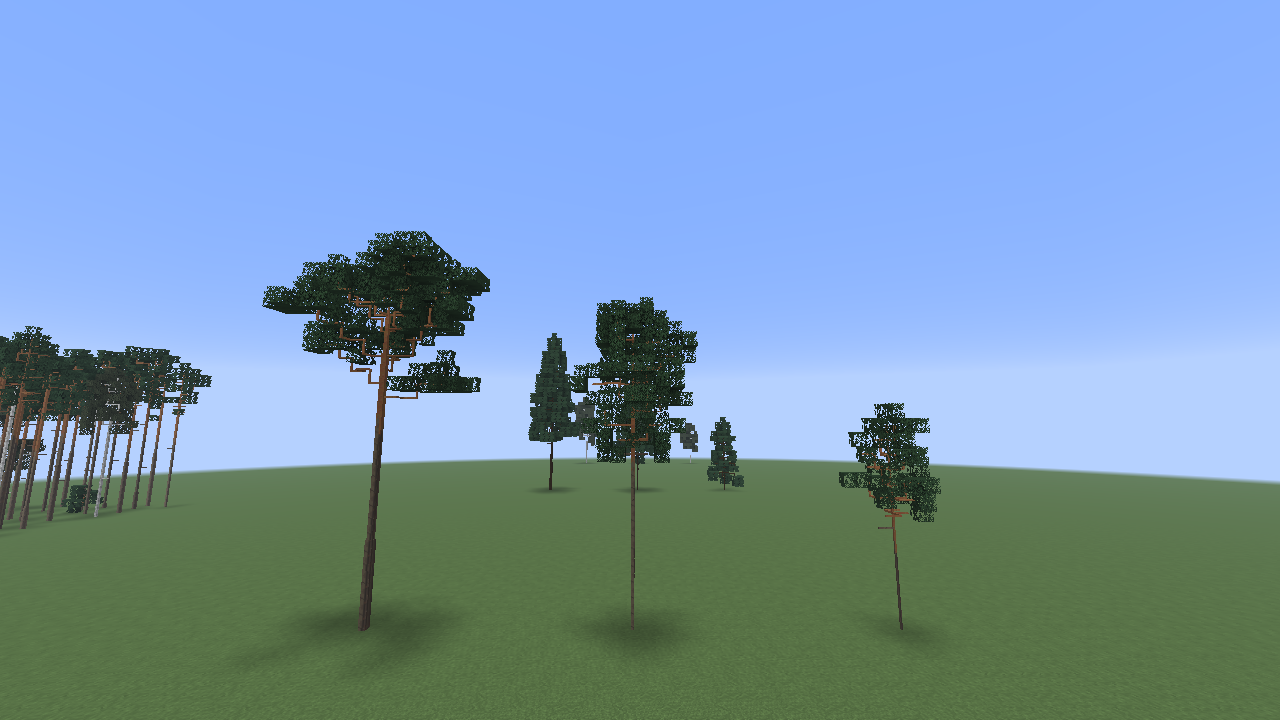
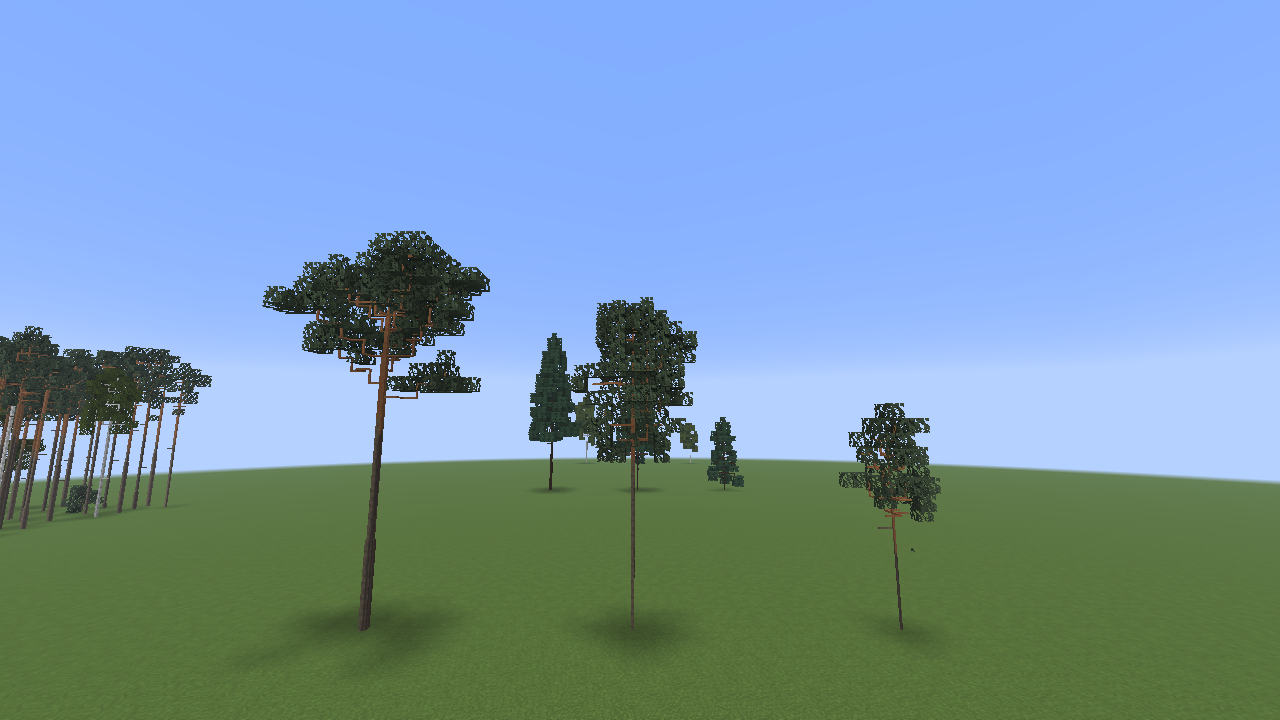
V7 review fixes, round 1
- Game tests set the date explicitly; the tree board and slice norms run in mid-summer, plus October, November, January and March stand views
- Screenshots and sheets in docs/wycinek/drzewa/gra and docs/wycinek/liscie retaken; leaves board passes in all six render setups, with winter chroma checked too
- Docs: round 1 section in docs/04, V10 item for the SS sub-season frames, CP-B questions, G.13 V7-l to V7-p, BRIEF
- Full test suite passed (tools/dev/run-tests test)

diff --git a/docs/04-pionowy-wycinek.md b/docs/04-pionowy-wycinek.md
@@ -307,6 +307,7 @@ Ryzyko według B1. Wysokie (2 recenzentów, do 2 rund) mają: rejestracja blokó
   - A/B `stages` z bazą M2 z V0 w jednej sesji (4 przebiegi, mediany), w obu lasach, skalach i trybach oraz w obszarze „area”: FEATURES, LIGHT, cały chunk, liście i drewno na chunk, czas planera; chunki na sekundę z C2ME; pamięć i liczba stanów;
   - FPS w stałym przelocie kamery z paczką i bez (nowy przelot w `performance`);
   - jasność przy gruncie pod okapem grądu w południe i próby spawnu potworów w dzień (PW-13);
+  - (z przeglądu V7) zmiana podsezonu SS z naszą falą przebudowy i bez niej (np. fala pomijana, gdy zmienił się podsezon i działa SS, z opóźnieniem o tick, żeby nie wrócił wyścig z V7-g), w trzech rendererach: czy klatki 40–44 ms z Nvidium to `allChanged()` SS, czy podwójna praca; liczba stanów moda (po rundzie 1 przeglądu V7: 2224);
   - cięcia według potrzeby, w tej kolejności: puste środki koron, mniejsze skupiska liści, liście sosny i brzozy przepuszczające niebo, rzadsze a2.
 - **Ukończony, gdy:** cały chunk ≤ 48 ms wszędzie; FPS i chunki na sekundę w progach PW-10; nowe budżety FEATURES i LIGHT zapisane w `docs/04` jako propozycja do CP-B; potwory w dzień nie częściej niż w ciemnym lesie wanilii albo PW-13 wykonane.
 - **Ryzyko:** wysokie (R1, R2). Cięcia nie mogą zejść poniżej N1 i N4 bez decyzji użytkownika (B3).
@@ -316,10 +317,10 @@ Ryzyko według B1. Wysokie (2 recenzentów, do 2 rund) mają: rejestracja blokó
 To pierwszy moment, w którym użytkownik **gra**.
 
 - **Użytkownik dostaje:**
-  - stronę ze zrzutami obu lasów (gospodarczy i naturalny, 3 klasy wieku, z ziemi, z 30 m i spod okapu, REAL i GAMEPLAY, N i D, lato i jesień), z transektem Bśw → grąd i ze stykiem z biomami spoza pasa;
+  - stronę ze zrzutami obu lasów (gospodarczy i naturalny, 3 klasy wieku, z ziemi, z 30 m i spod okapu, REAL i GAMEPLAY, N i D, lato, jesień, późna jesień, zima i marzec (start nowego świata) obok siebie), z transektem Bśw → grąd i ze stykiem z biomami spoza pasa;
   - arkusze PNG drzew, zrzut sarny z 4 stron (sam model), tabelę karty norm wobec M2, liczby wydajności;
   - ziarno i współrzędne (`/polishforests find biome oak_hornbeam_forest`), listę do sprawdzenia: spacer 10 minut, ścięcie drzewa, posadzenie sadzonki, przelot elytrą nad lasem, `runClient -Poptimization`.
-- **Pytania:** pokrój i gęstość; budżety (PW-10); skala w GAMEPLAY (PW-12); czy styl sarny pozwala robić AI.
+- **Pytania:** pokrój i gęstość; budżety (PW-10); skala w GAMEPLAY (PW-12); czy styl sarny pozwala robić AI; z V7 (`docs/00` G.13): wielkość drzewa z sadzonki (V7-o), barwy gatunków latem i terminy przebarwiania (V7-d), zima liściastych do V13 (V7-l), data startu nowego świata (V7-p).
 - **Po akceptacji:** zamrożenie zapisu (PW-11, ZW-4).
 
 ### V11. Martwe drewno (A, 1,5–2 dnia)
@@ -1533,9 +1534,9 @@ Liście gatunków, krzywe kolorów, sadzonki i zestaw LITE sosny są w modzie; d
 
 **Pomiary** (gametest w 6 zestawach: wanilia, czysty Sodium `-Poptimization -PnoNvidium`, Sodium + Nvidium `-Poptimization`, każdy z SS i z `-PnoSeasons`; wszystkie PASS; `-PtimingsReportOnly`, bo równolegle mogła działać druga praca):
 - **Kolor:** w każdym zestawie i porze tint z `BlockColors` równa się krzywej; mediana ekranu każdej próbki ma chromatyczność krzywej z odchyleniem ≤ 0,009 (Sodium), ≤ 0,010 (wanilia), ≤ 0,011 (Nvidium) przy tolerancji 0,03; surowe listowie każdej próbki jest takie samo w każdej porze także z SS, czyli **bez podwójnego sezonowania** (dąb wanilii zmienia SS, nasze liście nie).
-- **Terminy** (bez SS; liczby w `docs/wycinek/liscie/wyniki_*.txt`): w 3. dekadzie IV liście mają tylko brzoza, klon i grab (jasnozielone), w V wszystkie poza jesionem (dąb oliwkowy na starcie); w 1. dekadzie X żółkną brzoza `#b0b938`, lipa `#9eaa3b` i klon `#91aa32`, dąb i grab są zielone; w 2. dekadzie brzoza `#cbb93a`, klon `#cdaa2f`, buk `#c3a638`, jesion zielonożółty `#8daf3d`; w 3. dekadzie klon pomarańczowy `#cd8f2f`, buk miedziany `#b77e2d`, grab żółty `#bba837`, dąb dopiero żółknie `#879932`, jesion bezlistny; w XI dąb żółtobrązowy `#a59435`, grab brązowy `#9e7f32`, buk `#9a6a2c`, brzoza, lipa i jesion w kolorze spoczynku.
+- **Terminy** (bez SS; liczby w `docs/wycinek/liscie/wyniki_*.txt`): w 3. dekadzie IV jasnozielona jest tylko brzoza `#9fc64d`, klon `#8e9e4c` i grab `#929e45` dopiero rozwijają liście (oliwkowe, w pół drogi od koloru spoczynku; poprawione w rundzie 1 przeglądu, niżej), w V wszystkie poza jesionem (dąb oliwkowy na starcie); w 1. dekadzie X żółkną brzoza `#b0b938`, lipa `#9eaa3b` i klon `#91aa32`, dąb i grab są zielone; w 2. dekadzie brzoza `#cbb93a`, klon `#cdaa2f`, buk `#c3a638`, jesion zielonożółty `#8daf3d`; w 3. dekadzie klon pomarańczowy `#cd8f2f`, buk miedziany `#b77e2d`, grab żółty `#bba837`, dąb dopiero żółknie `#879932`, jesion bezlistny; w XI dąb żółtobrązowy `#a59435`, grab brązowy `#9e7f32`, buk `#9a6a2c`, brzoza, lipa i jesion w kolorze spoczynku.
 - **Fast:** liście gatunku są `LeavesBlock` i zachowują się jak liście dębu wanilii w tym samym rendererze: niebo przez ekran w Fancy 18,0–18,1% (dąb wanilii 16,6–16,8%), w Fast 0,0% / 0,0% (wanilia, czysty Sodium) i 34,6% / 33,0% (Nvidium wycina teren z progiem alfa).
-- **Przebudowa** (fala 11 pierścieni przy zasięgu 10, 63 ticki zapisu; klatka gametestu to ostatnia klatka ticku, nie FPS): bez SS p95 ≤ 1,9 ms (wanilia), ≤ 3,3 ms (Sodium), ≤ 3,0 ms (Nvidium), maksimum ≤ 2,0 / 3,9 / 3,6 ms; z SS maksimum 14,9 / 14,7 / 43,8 ms, bo przy zmianie podsezonu SS woła jeszcze `allChanged()` (z Nvidium co zmianę jedna klatka ok. 40–44 ms; bez SS takich klatek nie ma). Nasza fala nie daje zacięć; FPS w zwykłej grze mierzy V10.
+- **Przebudowa** (fala 12 pierścieni 0 … 11 przy zasięgu 10; log V7 podawał 11, 63 ticki zapisu; klatka gametestu to ostatnia klatka ticku, nie FPS): bez SS p95 ≤ 1,9 ms (wanilia), ≤ 3,3 ms (Sodium), ≤ 3,0 ms (Nvidium), maksimum ≤ 2,0 / 3,9 / 3,6 ms; z SS maksimum 14,9 / 14,7 / 43,8 ms (z Nvidium co zmianę podsezonu jedna klatka ok. 40–44 ms; bez SS takich klatek nie ma). **Hipoteza, nie pomiar:** przy zmianie podsezonu SS woła `allChanged()`, a nasza fala (V7-g) biegnie na to samo, więc praca przebudowy jest wtedy podwójna; przyczyny nie wyizolowano (zadanie dla V10, niżej). Nasza fala nie daje zacięć; FPS w zwykłej grze mierzy V10.
 - **Sadzonki** (9 z 9): każda po dwóch `advanceTree` rośnie w dokładnie to drzewo, które daje ficzer `sapling/<gatunek>` (wszystkie bloki drewna na miejscu, wszystkie liście): sosna 34 bloki drewna + 42 liście, 14 bloków wysokości; świerk 72 + 110, 14; brzoza 28 + 48, 12; dąb 38 + 163, 16; grab 63 + 233, 14; lipa 60 + 213, 15; buk 66 + 339, 16; jesion 31 + 106, 17; klon 41 + 142, 14. Sadzonka 4 bloki pod kamieniem nie przyjmuje mączki i po 3 `advanceTree` zostaje sadzonką. Siekiera koruje kłodę (oś z → oś z), receptura desek i tagi są wczytane.
 - **Tablica drzew V6** (`slice -Psites=trees`) z nowymi liśćmi: te same liczby co po rundzie 2 V6 (332 drzewa, 14 757 bloków drewna, 29 254 liście, żaden z odległością 7, zaraz i po 200 tickach); zrzutów `docs/wycinek/drzewa/gra/` nie odnawiano.
 
@@ -1549,3 +1550,32 @@ Liście gatunków, krzywe kolorów, sadzonki i zestaw LITE sosny są w modzie; d
 - Liczba stanów bloków moda rośnie o 9 × 115 + 13 = 1048 (z 840 do 1888).
 
 **Testy.** `FoliageCurveTest` (nowy: krzywa każdego gatunku planera, kolejność przebarwiania, kolory jesieni, 2–3 kolory w MID_AUTUMN, przesunięcie fazy, iglaste, rozróżnialne kolory lata, kroki roku), `RegistrySnapshotTest` (nowy test liści i sadzonek), `ProceduralTreeStatesTest` (liście gatunków w 4 fazach, kłoda sosnowa z pni, faza deterministyczna i równo rozłożona), `fastTest`, `checkDatagen`, `checkArt`, gametest `slice -Psites=leaves` w 6 zestawach, `slice -Psites=trees`, pełny zestaw `tools/dev/run-tests test`.
+
+### Runda 1 poprawek po przeglądzie V7 (2026-10-17)
+
+Przegląd: 2 uwagi poważne, 12 drobnych. Wszystkie sprawdzone i prawdziwe (żadnego fałszywego alarmu); poprawione wszystkie poza dwiema sprawami dla użytkownika (wielkość drzewa z sadzonki, start nowego świata) i białymi cienkimi gałązkami brzozy (V6/M3). Nowe drobne wybory: `docs/00` G.13 V7-l … V7-p, zmienione V7-d, V7-e, V7-g.
+
+**Zima i przedwiośnie (poważna).** Wspólny ciemny oliwkowy kolor spoczynku (`#7d6a50`) i suchy brąz (`#8a6a3e`) całych koron dębu, grabu i buka dawały przez ok. 40% roku las „martwy albo spalony” (na ekranie ok. (44, 39, 27)), a nowy świat startuje w marcu. Teraz:
+- każdy gatunek ma własną jasną **mgiełkę gałązek** (V7-l: brzoza `#b58b8f` fioletowobrązowa, lipa `#aa8377` rdzawa, klon `#9d8e80`, dąb `#9a8577` szarobrązowe, grab `#959084`, buk `#a1897e` szare, jesion `#9c9c91` jasnoszary; waga 0,9), chroma ≤ 20, jasność najwyżej 8 L* poniżej lata (test);
+- **marcescencja** tylko tam, gdzie liście naprawdę zostają: nowa właściwość `marcescent` na liściach dębu, grabu i buka (`MarcescentLeavesBlock`), planer (`ProceduralTreeFeature.marcescentShare`) zapisuje ją na całej koronie drzewa w drągowinie (także z sadzonki), dolnej połowie korony drzewa podokapowego i dolnej ćwiartce korony drzewa okapu; kolor jaśniejszy i cieplejszy (dąb `#a77f56`, grab `#a58660`, buk `#be8c5f`), trzymany do listnienia; brzoza, lipa, klon i jesion nigdy;
+- listnienie startuje 0,4 kroku przed kluczem (było 0,7), więc przejście z mgiełki w młode liście nie przechodzi przez khaki.
+Na ekranie (tablica drzew, krawędź grądu, korony bez nieba): średnia luminancja zimą 46,7, w marcu 46,7, latem 47,1, w X 49,6, czyli zimą las ma jasność lata; próbki zimą (61–69, 49–66, 47–57) zamiast (44–54, 39–45, 25–31). Data startu świata bez zmian, pytanie do CP-B (V7-p).
+
+**Data w testach ze zrzutami (poważna).** `TreeSamples` i karta norm `slice` bez SS stały w marcu (krok 0), więc tablica drzew i zrzuty `docs/wycinek/drzewa/gra/` miały brązowe korony. Nowa klasa `SeasonDates` ustawia datę jawnie (z SS `season set`, bez SS `time set` na kalendarzu wbudowanym) i zapisuje ją w logu (`[trees] date: MID_SUMMER day 4 (built-in calendar), color step 13`): tablica drzew w środku MID_SUMMER, karta norm `slice` i sondy w MID_SUMMER z SS i bez (bez SS karta norm liczyła dotąd aspekt wiosenny runa, V7-n). Tablica drzew robi dodatkowo krawędź i wnętrze grądu, krawędź boru i samotne dęby w X (2. dekada), XI, I i III (`trees_<renderer>_season_<podsezon>_<widok>`; przebieg ok. 3 min). Zrzuty `docs/wycinek/drzewa/gra/` odnowione latem, nowy arkusz `pory_roku.png` (lato, X, XI, I, III).
+
+**Drobne.**
+- **Paleta lata:** odcienie gatunków z wagą 0,4 dobrane w Lab (V7-d): każda para gatunków ΔE76 ≥ 6,3 nad kolorem grądu (było 2,1 grab/buk, 2,6 lipa/jesion, 4,2 jesion/dąb); grab matowy (chroma 55, buk 68; był najbardziej nasyconym), buk latem głębszy, jasny tylko wiosną; jasność lata +2 L*. Test `summerColorsOfTheSpeciesAreDistinct` sprawdza ΔE ≥ 6 (był próg 4 na kanał). Na ekranie (próbki MID_SUMMER, wanilia): grab/buk ΔE 7,1, lipa/jesion 10,4, lipa/klon 7,0; ciemne próbki ściskają różnice, więc brzoza/dąb 3,0, grab/dąb 3,1, jesion/dąb 4,1 — gatunki latem rozróżnia przede wszystkim pokrój (javadoc poprawiony).
+- **Złota jesień:** brzoza trzyma żółć do 23,6 kroku (bezlistna 24,2), lipa do 23,1 (23,6), klon pomarańcz do 23,9 (24,4); w 3. dekadzie X brzoza `#d2bf38`, lipa `#c4ad41`, klon `#d8932b` (było `#a49643`, `#918348`, `#cd8f2f`); brzoza z fazą 3 w 2. dekadzie X jest żółta (test `goldenAutumnHoldsUntilLeafFall`).
+- **Sosna:** latem `#7c996d` (chroma Lab 27, odcień 133; była `#7f9c86`, chroma 17, odcień 151), zimą żółknie do oliwki `#8a9670`, świerk ciemnieje o 12% jak dotąd (V7-e). Jasnozielone przyrosty V–VI pominięte (barwiłyby cały blok).
+- **Tekstura liści:** rampa szarości `broadleaf_leaves` podniesiona o 7 (średnia 143,8, dąb wanilii 144,2), kontrast lokalny bez zmian (22,8).
+- **Sadzonki:** więcej pikseli (81–102, było 51–75; wanilia 83–122) i kształty gatunków: lipa sercowate liście, klon pięcioklapowe, grab wydłużone owalne z fałdami, buk owalne, jesion więcej pierzastych liści i ciemniejsze zielenie, sosna świeża szarozielona kępa długich igieł na pomarańczowobrązowym pędzie (nie stożek świerka). Lint czysty.
+- **Sadzonka na ziemi uprawnej** rośnie i zostawia ziemię (`ProceduralTreeFeature.ground`), a klucz sadzonki wskazujący inny typ ficzera daje zachowanie wanilii (`SpeciesSaplingBlock.hasRoom`, V7-m); gametest `leaves` sprawdza oba (farmland: mączka tak, wyrosła, ziemia).
+- **Fala przebudowy:** pierścienie 0 … zasięg + 1, czyli 12 przy zasięgu 10 (log podawał 11; poprawiony log i „Stan po V7”). Przyczyna klatek 40–44 ms z Nvidium i SS opisana jako hipoteza; pomiar z falą i bez fali przy zmianie podsezonu SS dopisany do V10.
+- **Dokumentacja:** BRIEF (opis `write`), javadoc `ProceduralTreeFeature` i `wood()` (kłoda `TreeTrunk#log()`: wanilia albo kłoda sosny LITE), „Stan po V7” (3. dekada IV: przy fazie 1 próbki jasnozielona tylko brzoza, klon i grab w pół drogi; po poprawce przy średniej fazie jasnozielone brzoza, klon i grab), pytania V7 dopisane do CP-B.
+
+**Pomiary** (gametesty z `-PtimingsReportOnly`, wszystkie PASS):
+- `slice -Psites=trees` bez SS i z SS: 332 drzewa, 14 757 bloków drewna, 29 254 liście, żaden z odległością 7, zaraz i po 200 tickach (jak po V6); przeszkody: 6 drzew, 2835 liści, żaden z odległością 7. Fala przy zmianie pory w tablicy drzew: p95 1,0 ms (bez SS), 2,0–2,2 ms (z SS), maksimum ≤ 6,1 ms (pierwsza fala zaraz po wczytaniu świata 86–93 ms, bo idzie razem z budową chunków).
+- `slice -Psites=leaves` w 6 zestawach (wanilia, czysty Sodium, Sodium + Nvidium, każdy bez SS i z SS): tint `BlockColors` = krzywa (także liście z marcescencją), chromatyczność ekranu ≤ 0,010 od krzywej (tolerancja 0,03), teraz również zimą (mgiełka jest jaśniejsza niż cieniowanie, wyjątek zimowy usunięty); dęby, graby i buki z sadzonek mają wszystkie liście z marcescencją (163, 233, 339), pozostałe żadnych; Fast jak po V7 (Fancy 18,0% nieba, Fast 0% / 34,6% z Nvidium, dąb wanilii 16,8% / 33,0%); fala: p95 ≤ 4,4 ms we wszystkich zestawach, maksimum ≤ 7,8 ms poza Nvidium z SS (44,3 ms przy zmianie podsezonu, jak po V7, V10). Zrzuty i arkusze `docs/wycinek/liscie/` oraz `wyniki_*.txt` odnowione we wszystkich 6 zestawach.
+- Liczba stanów moda: 2224 (było 1888; +3 × 112).
+
+**Testy.** `FoliageCurveTest` (nowe: `leaflessCrownsAreLightAndOnlyMarcescentLeavesStayBrown`, `goldenAutumnHoldsUntilLeafFall`, `summerColorsOfTheSpeciesAreDistinct` z ΔE, `conifersKeepTheirHueAndChangeInWinter`), `ProceduralTreeStatesTest` (`marcescentLeavesOnYoungTreesAndLowerCrowns`), `RegistrySnapshotTest` (liczba stanów, właściwość `marcescent`; migawka przegenerowana świadomie: 3 bloki liści z nową właściwością), `fastTest`, `checkArt`, `checkDatagen`, gametesty jak wyżej, pełny zestaw `tools/dev/run-tests test`.

diff --git a/docs/00-decyzje-do-podjecia.md b/docs/00-decyzje-do-podjecia.md
@@ -328,11 +328,16 @@ Wybory przyjęte w kroku V7 (liście gatunków, krzywe kolorów, sadzonki, LITE 
 | V7-a | **Sadzonka rośnie w ficzer `polishforests:sapling/<gatunek>`** (`procedural_tree`: okap, drągowina, forma wolnostojąca), a nie w `tree/<gatunek>` z ZW-3 | `tree/<gatunek>` to do V9 zastępstwa M2 w paletach całego świata; przemianowanie kluczy (PW-3) robi V9. Klucz sadzonki jest daną (`SpeciesSaplingBlock.feature()`), więc V9 albo M3 może go przepiąć bez zmiany zapisów |
 | V7-b | **Sprawdzenie miejsca:** sadzonka przechodzi w drzewo (i przyjmuje mączkę) tylko wtedy, gdy każdy blok drewna planowanego drzewa trafia w powietrze albo `#replaceable_by_trees` w granicy wysokości świata (blok sadzonki liczy się jako wolny); liście miejsca nie wymagają (zapis je pomija) | Drzewo z planera jest czystą funkcją ziarna i pozycji, więc sprawdzenie widzi dokładnie to drzewo, które by wyrosło. Wanilia sprawdza tylko wysokość; pień przez dach byłby ucięty |
 | V7-c | **Faza drzewa** `phase` 0–3 z hasza podstawy pnia (nowa sól `feature.tree.phase`), przesunięcie krzywej o −1, −1/3, +1/3, +1 kroku (ok. ±10 dni); liście postawione przez gracza mają fazę 0 | Drzewostan nie przebarwia się naraz; przesunięcie mniejsze niż różnica gatunków (brzoza 21 / dąb 23), więc kolejność gatunków zostaje |
-| V7-d | **Krzywe liściastych** (raport 08 §9; krok ≈ dekada): listnienie brzoza 20 IV, klon i grab koniec IV, buk początek V, lipa i dąb ok. 5–10 V, jesion poł. V; młode liście jasnożółtozielone przez ok. 1,5 podsezonu; latem kolor biomu z lekkim odcieniem gatunku (brzoza jaśniejsza, dąb oliwkowy, jesion i lipa chłodniejsze, buk jaśniejszy); jesień: brzoza i lipa żółte od końca IX, klon żółty → pomarańczowy, jesion zielonożółty i wcześnie bezlistny, grab żółty → brązowy, buk złoty → miedziany → brązowy, dąb późno żółtobrązowy → brązowy; zimą i przed listnieniem **matowy kolor spoczynku** (dąb, grab, buk suchy brąz) | Do V13 korona zimą to blok liści; V13 zastąpi go gałązkami (T-D5), a brąz dębu, grabu i buka zostanie dla marcescencji. Alternatywa: kolor lata zimą (zielone korony w śniegu) |
-| V7-e | **Iglaste:** stały odcień (sosna `#7f9c86` z propozycji V1, świerk jak wanilia `#619961`), bez koloru biomu, zimą (XII–II) ciemniejsze o 12%, przejście w XI i III; faza nic nie zmienia | Plan: „stały odcień z lekkim zimowym przyciemnieniem” |
+| V7-d | **Krzywe liściastych** (raport 08 §9; krok ≈ dekada): listnienie brzoza 20 IV, klon i grab koniec IV, buk początek V, lipa i dąb ok. 5–10 V, jesion poł. V; młode liście jasnożółtozielone przez ok. 1,5 podsezonu; latem kolor biomu z odcieniem gatunku o wadze 0,4 (po rundzie 1 przeglądu: brzoza jasna żółtawa, buk jasny, klon czysta zieleń, jesion jasny żółtozielony, lipa niebieskawa, grab matowa średnia zieleń, dąb ciemny; każda para gatunków ΔE ≥ 6 nad kolorem grądu); jesień: brzoza i lipa żółte od końca IX i **żółte aż do opadnięcia** (brzoza do 23,6, lipa do 23,1 kroku, klon pomarańczowy do 23,9), klon żółty → pomarańczowy, jesion zielonożółty i wcześnie bezlistny, grab żółty → brązowy, buk złoty → miedziany → brązowy, dąb późno żółtobrązowy → brązowy; zimą i przed listnieniem **jasna „mgiełka gałązek” gatunku** (V7-l) | Do V13 korona zimą to blok liści; V13 zastąpi go gałązkami (T-D5). Pierwsza wersja V7 miała wspólny ciemny oliwkowy kolor spoczynku i suchy brąz całych koron dębu, grabu i buka (przegląd V7: las wyglądał na martwy przez ok. 40% roku); alternatywa: kolor lata zimą (zielone korony w śniegu) |
+| V7-e | **Iglaste:** stały odcień w sezonie, bez koloru biomu; zimą (XII–II, przejście w XI i III) **sosna żółknie** do oliwki `#8a9670`, **świerk ciemnieje** o 12%; sosna latem `#7c996d` (chroma Lab 27, odcień 133; pierwsza wersja `#7f9c86` miała chromę 17 i odcień 151, czyli szaroturkusowy, „oszroniony” kolor); faza nic nie zmienia | Plan: „stały odcień z lekkim zimowym przyciemnieniem”; runda 1 przeglądu: igły sosny zimą żółkną, świerka nie. Jasnozielone przyrosty w V–VI pominięte: barwiłyby cały blok, a nie końce pędów (M3, nakładka tekstury) |
 | V7-f | **Wyłącznik SS** `changeFoliageColor` = false zatrzymuje wszystkie krzywe (także iglaste) na MID_SUMMER; bez SS krzywe działają zawsze | B6 (a): SS jest tylko źródłem pory roku i tym wyłącznikiem |
-| V7-g | **Przebudowa siatek** przy każdej zmianie kroku falą pierścieni od kamery (co 2 ticki, środek z początku fali), także przy zmianie podsezonu z SS (SS woła wtedy dodatkowo `allChanged()`); w logu mediana, p95 i maksimum czasu klatki fali (ostatnia klatka każdego ticku) | V3-a. Pominięcie fali przy zmianie podsezonu z SS groziłoby wyścigiem (siatki SS budowane przed zmianą naszego kroku) |
+| V7-g | **Przebudowa siatek** przy każdej zmianie kroku falą pierścieni od kamery (co 2 ticki, środek z początku fali; pierścienie 0 … zasięg + 1), także przy zmianie podsezonu z SS (SS woła wtedy dodatkowo `allChanged()`); w logu mediana, p95 i maksimum czasu klatki fali (ostatnia klatka każdego ticku) | V3-a. Pominięcie fali przy zmianie podsezonu z SS groziłoby wyścigiem (siatki SS budowane przed zmianą naszego kroku). Świadome odstępstwo od V3-a: przy zmianie podsezonu z SS praca przebudowy jest podwójna; czy to ona daje klatki 40–44 ms z Nvidium, sprawdzi V10 (hipoteza, nie pomiar) |
 | V7-h | **Kolor przedmiotu liści:** stały (`tints` constant) kolor lata gatunku nad domyślnym kolorem listowia wanilii | Ikona nie zna biomu ani pory; jak wanilia |
 | V7-i | **Tekstury:** liście liściastych wspólne (`broadleaf_leaves`, gatunki różni krzywa), igły sosny własne, liście brzozy i świerka z wanilii przez id; sadzonki własne dla sosny, lipy, grabu, buka, jesionu i klonu (`tools/art/wood.py`), dąb, brzoza i świerk z wanilii przez id; kłoda sosnowa: bok = kora dolna `scots_pine_bark`, własny czubek, okorowane i deski z `tools/art` (nowe rodzaje lintu `planks`, `stripped`, `end`, `sapling` z progami z median wanilii 26.3, dla okorowanych z górnego kwartyla). Cienkie pnie sosny mają teraz na końcach własny czubek kłody sosnowej (był `spruce_log_top`) | D2, D5; liście liściaste z osobnymi teksturami dla gatunków to M3 |
 | V7-j | **Tag `#polishforests:scots_pine_full_logs`** (kłoda, drewno, okorowane; bloki i przedmioty) dla receptury desek (4 deski), zawarty w `#polishforests:scots_pine_logs`; cienkie pnie w nim nie są | V2-d: gałązka r 1 z jedwabnym dotykiem nie daje 4 desek |
 | V7-k | Pnie sosny (r ≥ 3) dają kłodę sosnową LITE zamiast kłody świerkowej; cząstki opadających igieł 0,002 (świerk wanilii nie ma żadnych), liści 0,01 jak dąb; palność i wartości paliwa jak wanilia; korowanie tylko pełnej kłody i drewna (z zachowaniem osi), cienkie pnie w M3 | D1 (b) |
+| V7-l | **Marcescencja** (runda 1 przeglądu V7): nowa właściwość `marcescent` tylko na liściach dębu, grabu i buka (`MarcescentLeavesBlock`, +336 stanów, razem 2224); planer zapisuje liście z marcescencją na całej koronie drzewa w drągowinie (także z sadzonki), na dolnej połowie korony drzewa podokapowego i na dolnej ćwiartce korony drzewa okapu (strefa młodociana); takie liście od późnej jesieni do listnienia mają jasny ciepły suchy brąz (dąb `#a77f56`, grab `#a58660`, buk `#be8c5f` z wagą 0,9), pozostałe liście tych gatunków i wszystkie liście brzozy, lipy, klonu i jesionu mają zimą jasną mgiełkę gałązek gatunku o chromie ≤ 20 i jasności najwyżej 8 L* poniżej lata (brzoza fioletowobrązowa, lipa rdzawa, klon i dąb szarobrązowe, grab i buk szare, jesion jasnoszary); listnienie zaczyna się 0,4 kroku przed kluczem (było 0,7), bez przejścia przez khaki | Las zimą nie wygląda na martwy ani spalony; brąz zostaje tam, gdzie liście naprawdę zostają (młode drzewa, dolne gałęzie). Właściwość to identyfikator w zapisie (migawka przegenerowana świadomie, przed CP-B). Alternatywy: brąz na całych koronach dębu, grabu i buka (pierwsza wersja V7), kolor lata zimą |
+| V7-m | **Sadzonka na ziemi uprawnej** rośnie (jak wanilia), ziemia uprawna pod drzewem zamienia się w ziemię; podłoże pnia: blok z pełną górną ścianą albo ziemia uprawna. Klucz sadzonki wskazujący inny typ ficzera niż `procedural_tree` (późniejszy krok, paczka danych): sadzonka zachowuje się jak waniliowa (próbuje rosnąć, sprawdzenie miejsca tylko dla drzew planera) | Przegląd V7: sadzonka posadzona na ziemi uprawnej nie rosła nigdy, a inny ficzer w kluczu blokował wzrost |
+| V7-n | **Data w testach ze zrzutami** ustawiana jawnie (`SeasonDates`): tablica drzew, karta norm `slice` i sondy w MID_SUMMER z SS i bez SS (bez SS karta norm liczyła dotąd aspekt wiosenny, bo świat startuje w marcu); tablica drzew dodatkowo w X, XI, I i III (`trees_<renderer>_season_<podsezon>_<widok>`) | Od V7 data decyduje o wyglądzie lasu |
+| V7-o | **Drzewo z sadzonki:** od razu drągowina wolnostojąca, 12–17 bloków wysokości (wanilia 5–7). **Pytanie do CP-B**; rekomendacja wykonawcy V7: zostawić; rekomendacja przeglądu: młode drzewo 4–7 bloków (młodnik, może w dwóch etapach wzrostu) i gęstsza korona brzozy z sadzonki | Drzewo planera w stylu drągowiny jest realistycznym młodym drzewem, ale pomija etap odnowienia; decyzja należy do użytkownika |
+| V7-p | **Data startu nowego świata** bez zmian: SS zaczyna od EARLY_SPRING (`starting_sub_season` = 1 w konfiguracji SS), wbudowany kalendarz od kroku 0 (1 III), więc nowy świat startuje w bezlistnym lesie (po V7-l jasnym). **Pytanie do CP-B:** czy kalendarz wbudowany i zalecana konfiguracja SS mają startować w LATE_SPRING | Zmiana kalendarza przesuwa też śnieg i zamarzanie wody (`BiomeFreezeMixin` korzysta z pory roku), więc bez decyzji użytkownika jej nie robimy |

diff --git a/docs/BRIEF.md b/docs/BRIEF.md
@@ -10,7 +10,7 @@ Mod Fabric do Minecrafta 26.3 (Java 25, Loom, Gradle 9.7, JDK z `gradle.properti
 
 - M0, M1 i M2 zamknięte (M2: punkty kontrolne 1 i 2 przyjęte 2026-10-14; decyzje M2-13 … M2-27 domyślne, do potwierdzenia, `docs/00` E).
 - Pionowy wycinek (grąd i bór świeży, plan `docs/04-pionowy-wycinek.md`), część 1 zrobiona: V0, V1, V2 (+V2b), V3, V5, CP-A (styl tekstur i cienki pień przyjęte, `docs/00` G.9).
-- Część 2: **V1b** (wygładzenie tekstur), **V4** (karta norm, pomiar bazowy M2: `docs/wycinek/karta-norm-m2.md`) i **V6** (planer drzew `TreeShapePlan`, ficzer `procedural_tree`, podgląd `docs/wycinek/drzewa/`; świat jeszcze bez nowych drzew, podłącza je V9) zrobione; runda 1 przeglądu V6: faliste powierzchnie podziału pięter zamiast pasm, gałęzie jako krzywe bez kolanek i haków, drzewa wolnostojące (pytanie do CP-B: kompromis N2, `docs/04` „Runda 1 poprawek po przeglądzie V6”); runda 2: iglica świerka jako kolumna igieł. **V7** zrobione (liście gatunków z fazą drzewa, krzywe kolorów `season/FoliageCurve` i `SeasonPhase`, sadzonki rosnące w drzewo planera, LITE sosny; `docs/04` „Stan po V7”, zrzuty `docs/wycinek/liscie/`). **Następne: V9** (`StandMap`, drzewostan wycinka; usuwa pas słabszego pokrycia koron na granicach chunków, V5-i), **V10** (pomiary i budżety; rozstrzyga pasek kolanka i dziury w narożnikach czapki pnia), potem **CP-B**.
+- Część 2: **V1b** (wygładzenie tekstur), **V4** (karta norm, pomiar bazowy M2: `docs/wycinek/karta-norm-m2.md`) i **V6** (planer drzew `TreeShapePlan`, ficzer `procedural_tree`, podgląd `docs/wycinek/drzewa/`; świat jeszcze bez nowych drzew, podłącza je V9) zrobione; runda 1 przeglądu V6: faliste powierzchnie podziału pięter zamiast pasm, gałęzie jako krzywe bez kolanek i haków, drzewa wolnostojące (pytanie do CP-B: kompromis N2, `docs/04` „Runda 1 poprawek po przeglądzie V6”); runda 2: iglica świerka jako kolumna igieł. **V7** zrobione (liście gatunków z fazą drzewa, krzywe kolorów `season/FoliageCurve` i `SeasonPhase`, sadzonki rosnące w drzewo planera, LITE sosny; `docs/04` „Stan po V7”, zrzuty `docs/wycinek/liscie/`); runda 1 przeglądu V7: zimą jasna mgiełka gałązek zamiast brązu, marcescencja tylko młodych drzew i dolnych koron, paleta lata (ΔE ≥ 6), sadzonki na ziemi uprawnej, jawna data w testach (`docs/04` „Runda 1 poprawek po przeglądzie V7”). **Następne: V9** (`StandMap`, drzewostan wycinka; usuwa pas słabszego pokrycia koron na granicach chunków, V5-i), **V10** (pomiary i budżety; rozstrzyga pasek kolanka i dziury w narożnikach czapki pnia), potem **CP-B**.
 - Tor sarny **V8** gotowy na gałęzi `slice-fauna` (model i kalibracja GeckoLib, runda 1 poprawek), **wstrzymany przez użytkownika, nie scalać**.
 
 ## Konwencje
@@ -37,9 +37,9 @@ Mod Fabric do Minecrafta 26.3 (Java 25, Loom, Gradle 9.7, JDK z `gradle.properti
 - `worldgen/surface/SurfaceBuilder` – plan powierzchni chunka; `SoilBlocks`, `BankShelf`, `SoilBlend`.
 - `worldgen/feature/` – `ModFeatures`, `TreeStandFeature` + `plan/TreeStandPlan` (drzewostan), `PlantLayerFeature` (warstwy runa), `plan/Ecotone`.
 - `worldgen/tree/CrownTerritories` – terytoria koron (V5); `TreeShapePlan` – planer drzew (V6: `TreeRequest` → `TreeVoxels`, gatunki w `SpeciesShape`, powierzchnie podziału pięter `split`); `StandMap` (w V9 pełna), `Vacancies`, `AgeClass`, `CrownLayer`.
-- `worldgen/feature/ProceduralTreeFeature` – ficzer `polishforests:procedural_tree` i zapis planu (`write`, liście zastępcze wanilii do V7).
+- `worldgen/feature/ProceduralTreeFeature` – ficzer `polishforests:procedural_tree` i zapis planu (`write`: liście gatunku z fazą drzewa, marcescencja dębu, grabu i buka na młodych drzewach i dolnych koronach).
 - `worldgen/norms/` – `ForestNorms` (karta norm §6), `ForestCensus`, `CensusGrid`, `CensusTestPlot` (V4).
-- `block/TrunkBlock` – cienki pień (`radius` 1–7); `TreeTrunk` (12 bloków pni), `TreeFoliage` (liście `SpeciesLeavesBlock` z `phase`, sadzonki `SpeciesSaplingBlock`, doniczki; V7), LITE sosny w `ModBlocks`, `RegistrySnapshot`.
+- `block/TrunkBlock` – cienki pień (`radius` 1–7); `TreeTrunk` (12 bloków pni), `TreeFoliage` (liście `SpeciesLeavesBlock` z `phase`, `MarcescentLeavesBlock` z `marcescent`, sadzonki `SpeciesSaplingBlock`, doniczki; V7), LITE sosny w `ModBlocks`, `RegistrySnapshot`.
 - `src/client/.../ClientSeasonPhase` – krok koloru klienta, odcień liści gatunków, przebudowa siatek falą (V7).
 - `src/client/.../datagen/` – datagen (biomy, drzewa, modele pni `TrunkTemplates`); wynik w `src/main/generated` (w repo, nie edytować ręcznie).
 - `src/gametest/` – testy w kliencie: m.in. `SliceClientGameTest` (wycinek, karta norm, tablica próbek pni), `RenderProbesClientGameTest`, `PerformanceClientGameTest`.
@@ -68,7 +68,7 @@ python tools/dev/contact_sheet.py <katalog|glob> [...] --out arkusz.png [--cols 
 ```
 
 **Gametesty** (otwierają okno gry): `./gradlew runClientGameTest -Pgametest=<tryb>`, tryby: `all|ui|performance|views|stages|climate|habitats|vegetation|present_day|determinism|ecotones|slice|probes`.
-- Flagi: `-Psites=<lista>|none` (dla `slice`: `samples` = tablica próbek pni, ok. 3,5 min; `trees` = tablica drzew planera z drzewostanami i ekotonem z drzewami zastępczymi, ok. 2 min; `leaves` = liście gatunków w porach roku, sadzonki, LITE sosny, tryb Fast, ok. 2,5 min, wyniki `build/leaves/`; `none` = sama karta norm, ok. 2 min → `build/norms/karta-norm.csv`; pełny `slice` ok. 67 min; dla `stages`: `slice`), `-Pscales=realistic|gameplay`, `-Pmodes=natural|present_day`, `-PnoSeasons` (bez SS i GlitchCore), `-Poptimization` (paczka: Sodium, C2ME…; na NVIDIA z shaderami siatek sam włącza Nvidium), `-PnoNvidium` (czysty Sodium), `-PtimingsReportOnly` (progi czasu tylko w raporcie, gdy maszyna zajęta), `-Pprofile`, `-PdebugHabitats`, `-PfindSliceCameras` (tylko świat M2).
+- Flagi: `-Psites=<lista>|none` (dla `slice`: `samples` = tablica próbek pni, ok. 3,5 min; `trees` = tablica drzew planera z drzewostanami i ekotonem z drzewami zastępczymi latem, potem drzewostany w X, XI, I i III, ok. 3 min; `leaves` = liście gatunków w porach roku, sadzonki, LITE sosny, tryb Fast, ok. 2,5 min, wyniki `build/leaves/`; `none` = sama karta norm, ok. 2 min → `build/norms/karta-norm.csv`; pełny `slice` ok. 67 min; dla `stages`: `slice`), `-Pscales=realistic|gameplay`, `-Pmodes=natural|present_day`, `-PnoSeasons` (bez SS i GlitchCore), `-Poptimization` (paczka: Sodium, C2ME…; na NVIDIA z shaderami siatek sam włącza Nvidium), `-PnoNvidium` (czysty Sodium), `-PtimingsReportOnly` (progi czasu tylko w raporcie, gdy maszyna zajęta), `-Pprofile`, `-PdebugHabitats`, `-PfindSliceCameras` (tylko świat M2).
 - `probes`: 6 zestawów (bez flag, `-Poptimization -PnoNvidium`, `-Poptimization`, każdy też z `-PnoSeasons`), wynik `build/probes/<renderer>_<ss|noss>.txt`.
 - Determinizm z paczką: `-Pgametest=determinism`, skopiuj `build/determinism/plain.txt` poza `build/determinism`, potem `-Poptimization -PdeterminismReference=<kopia>`.
 
